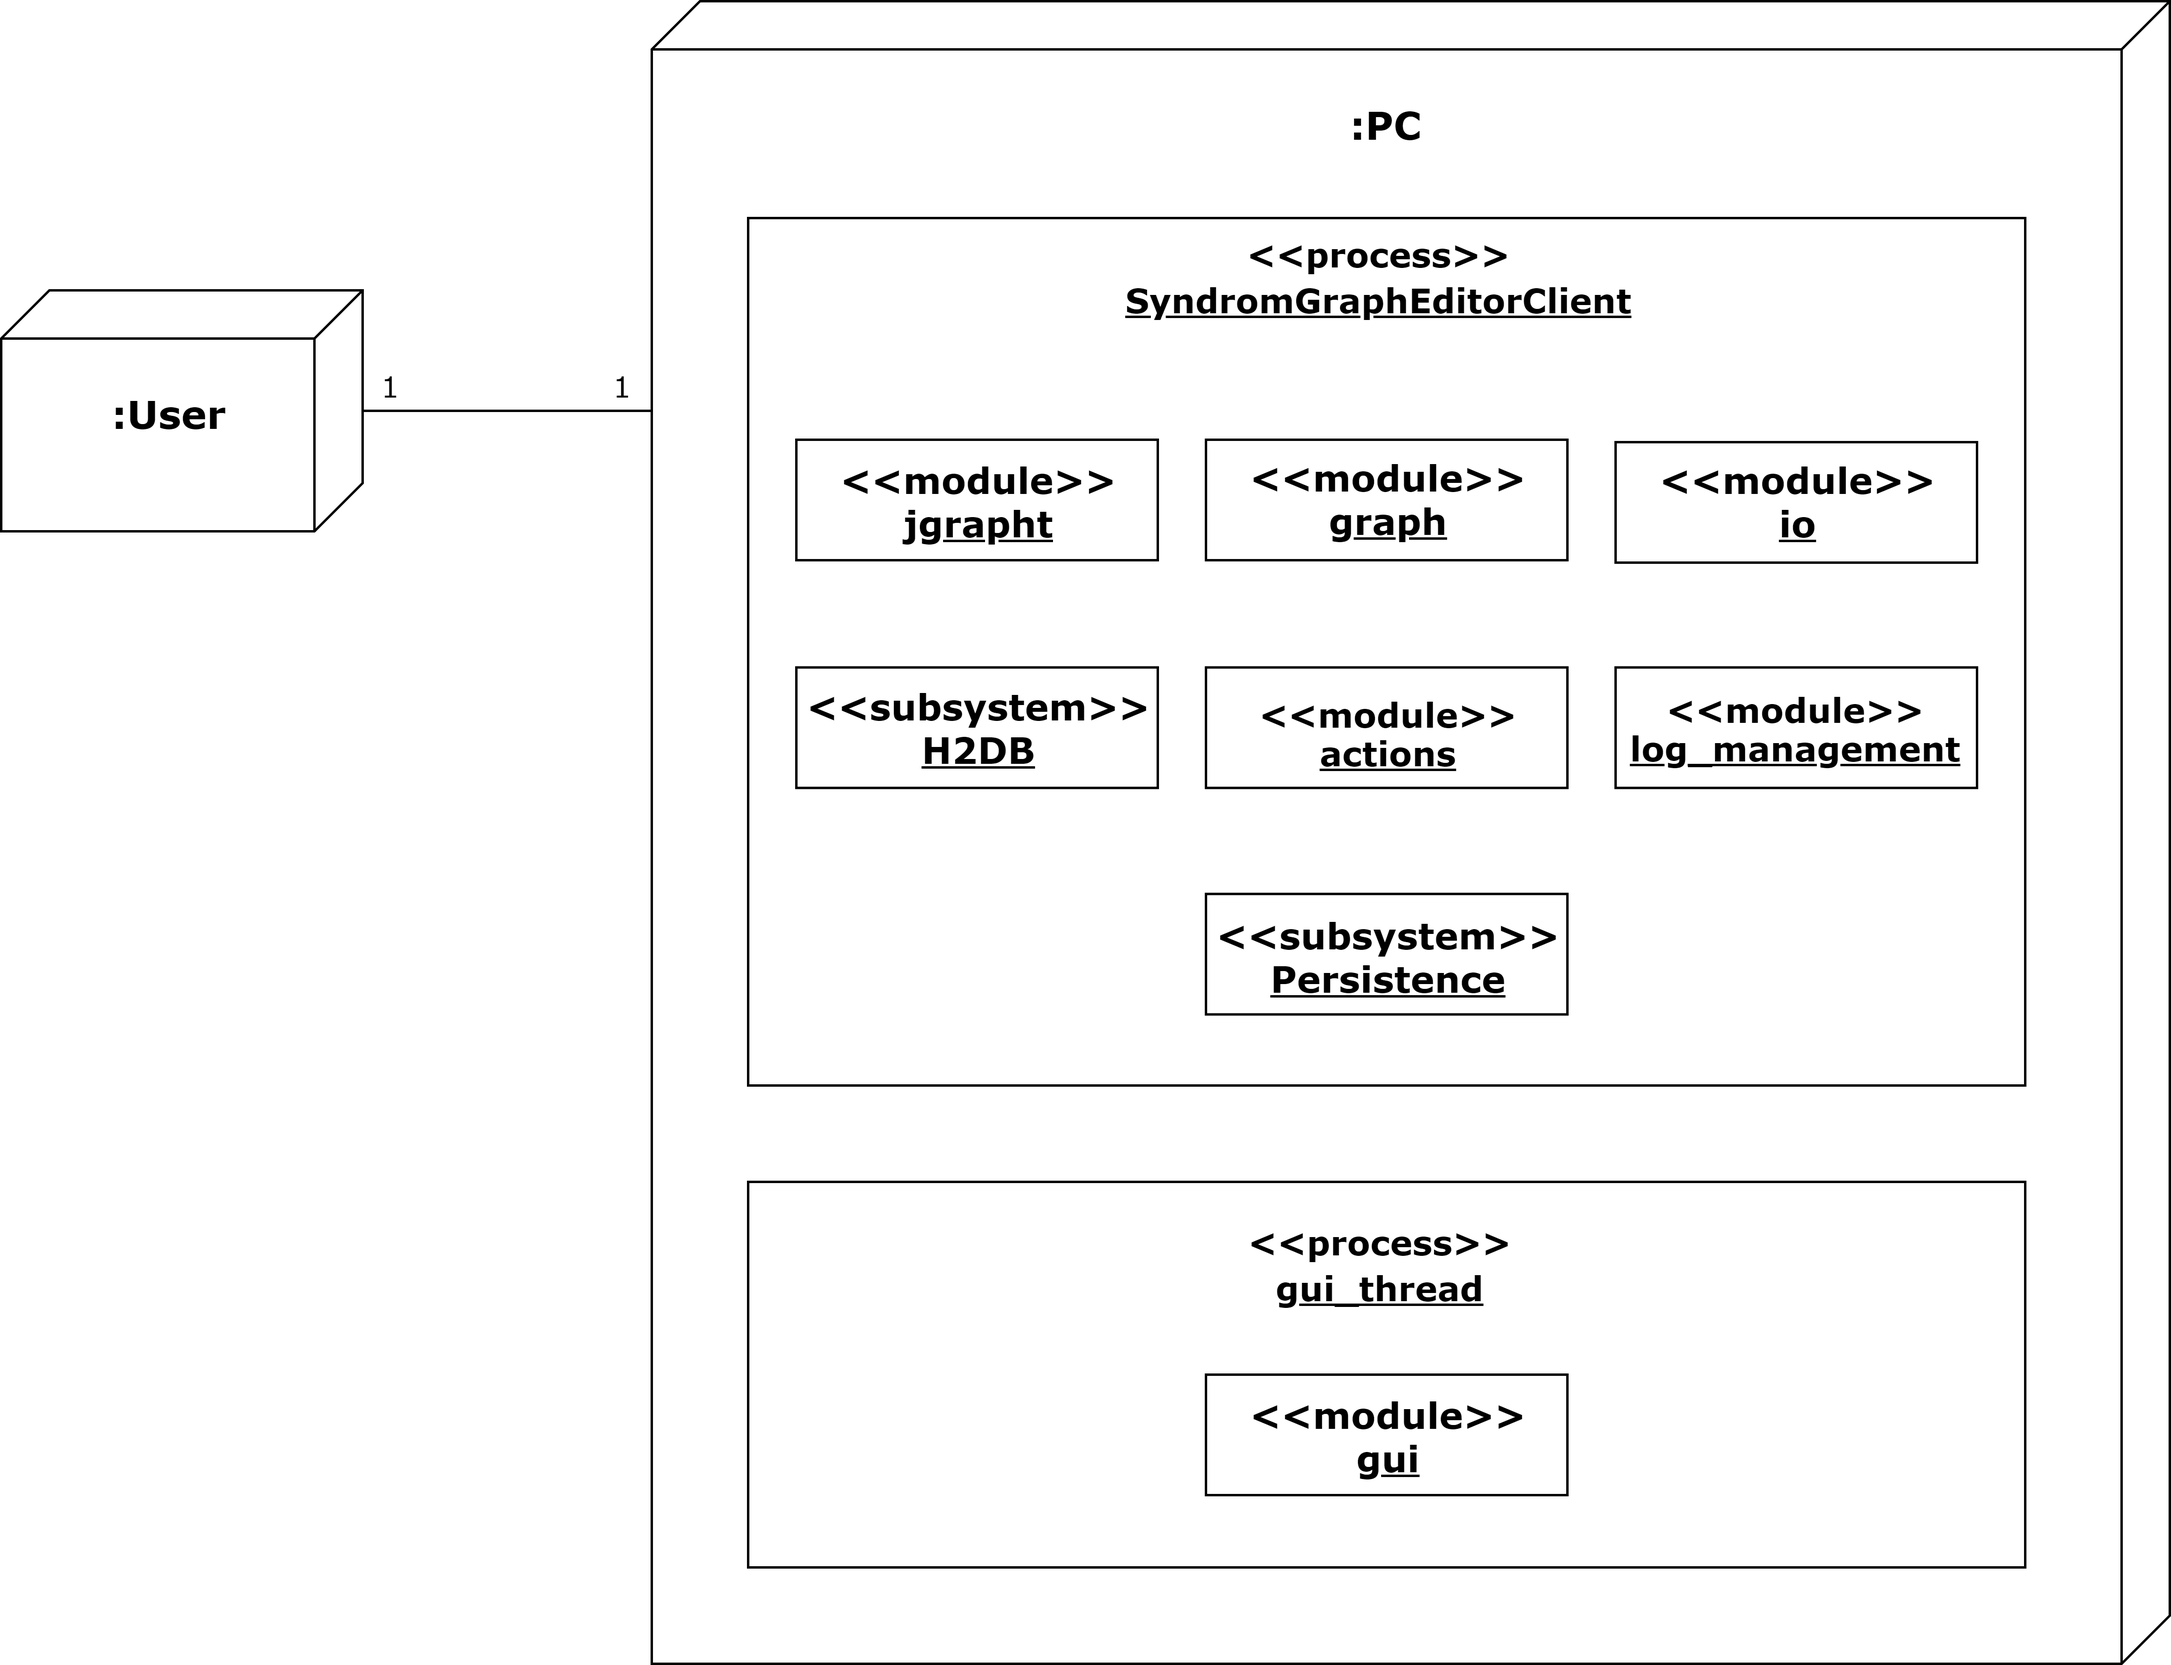
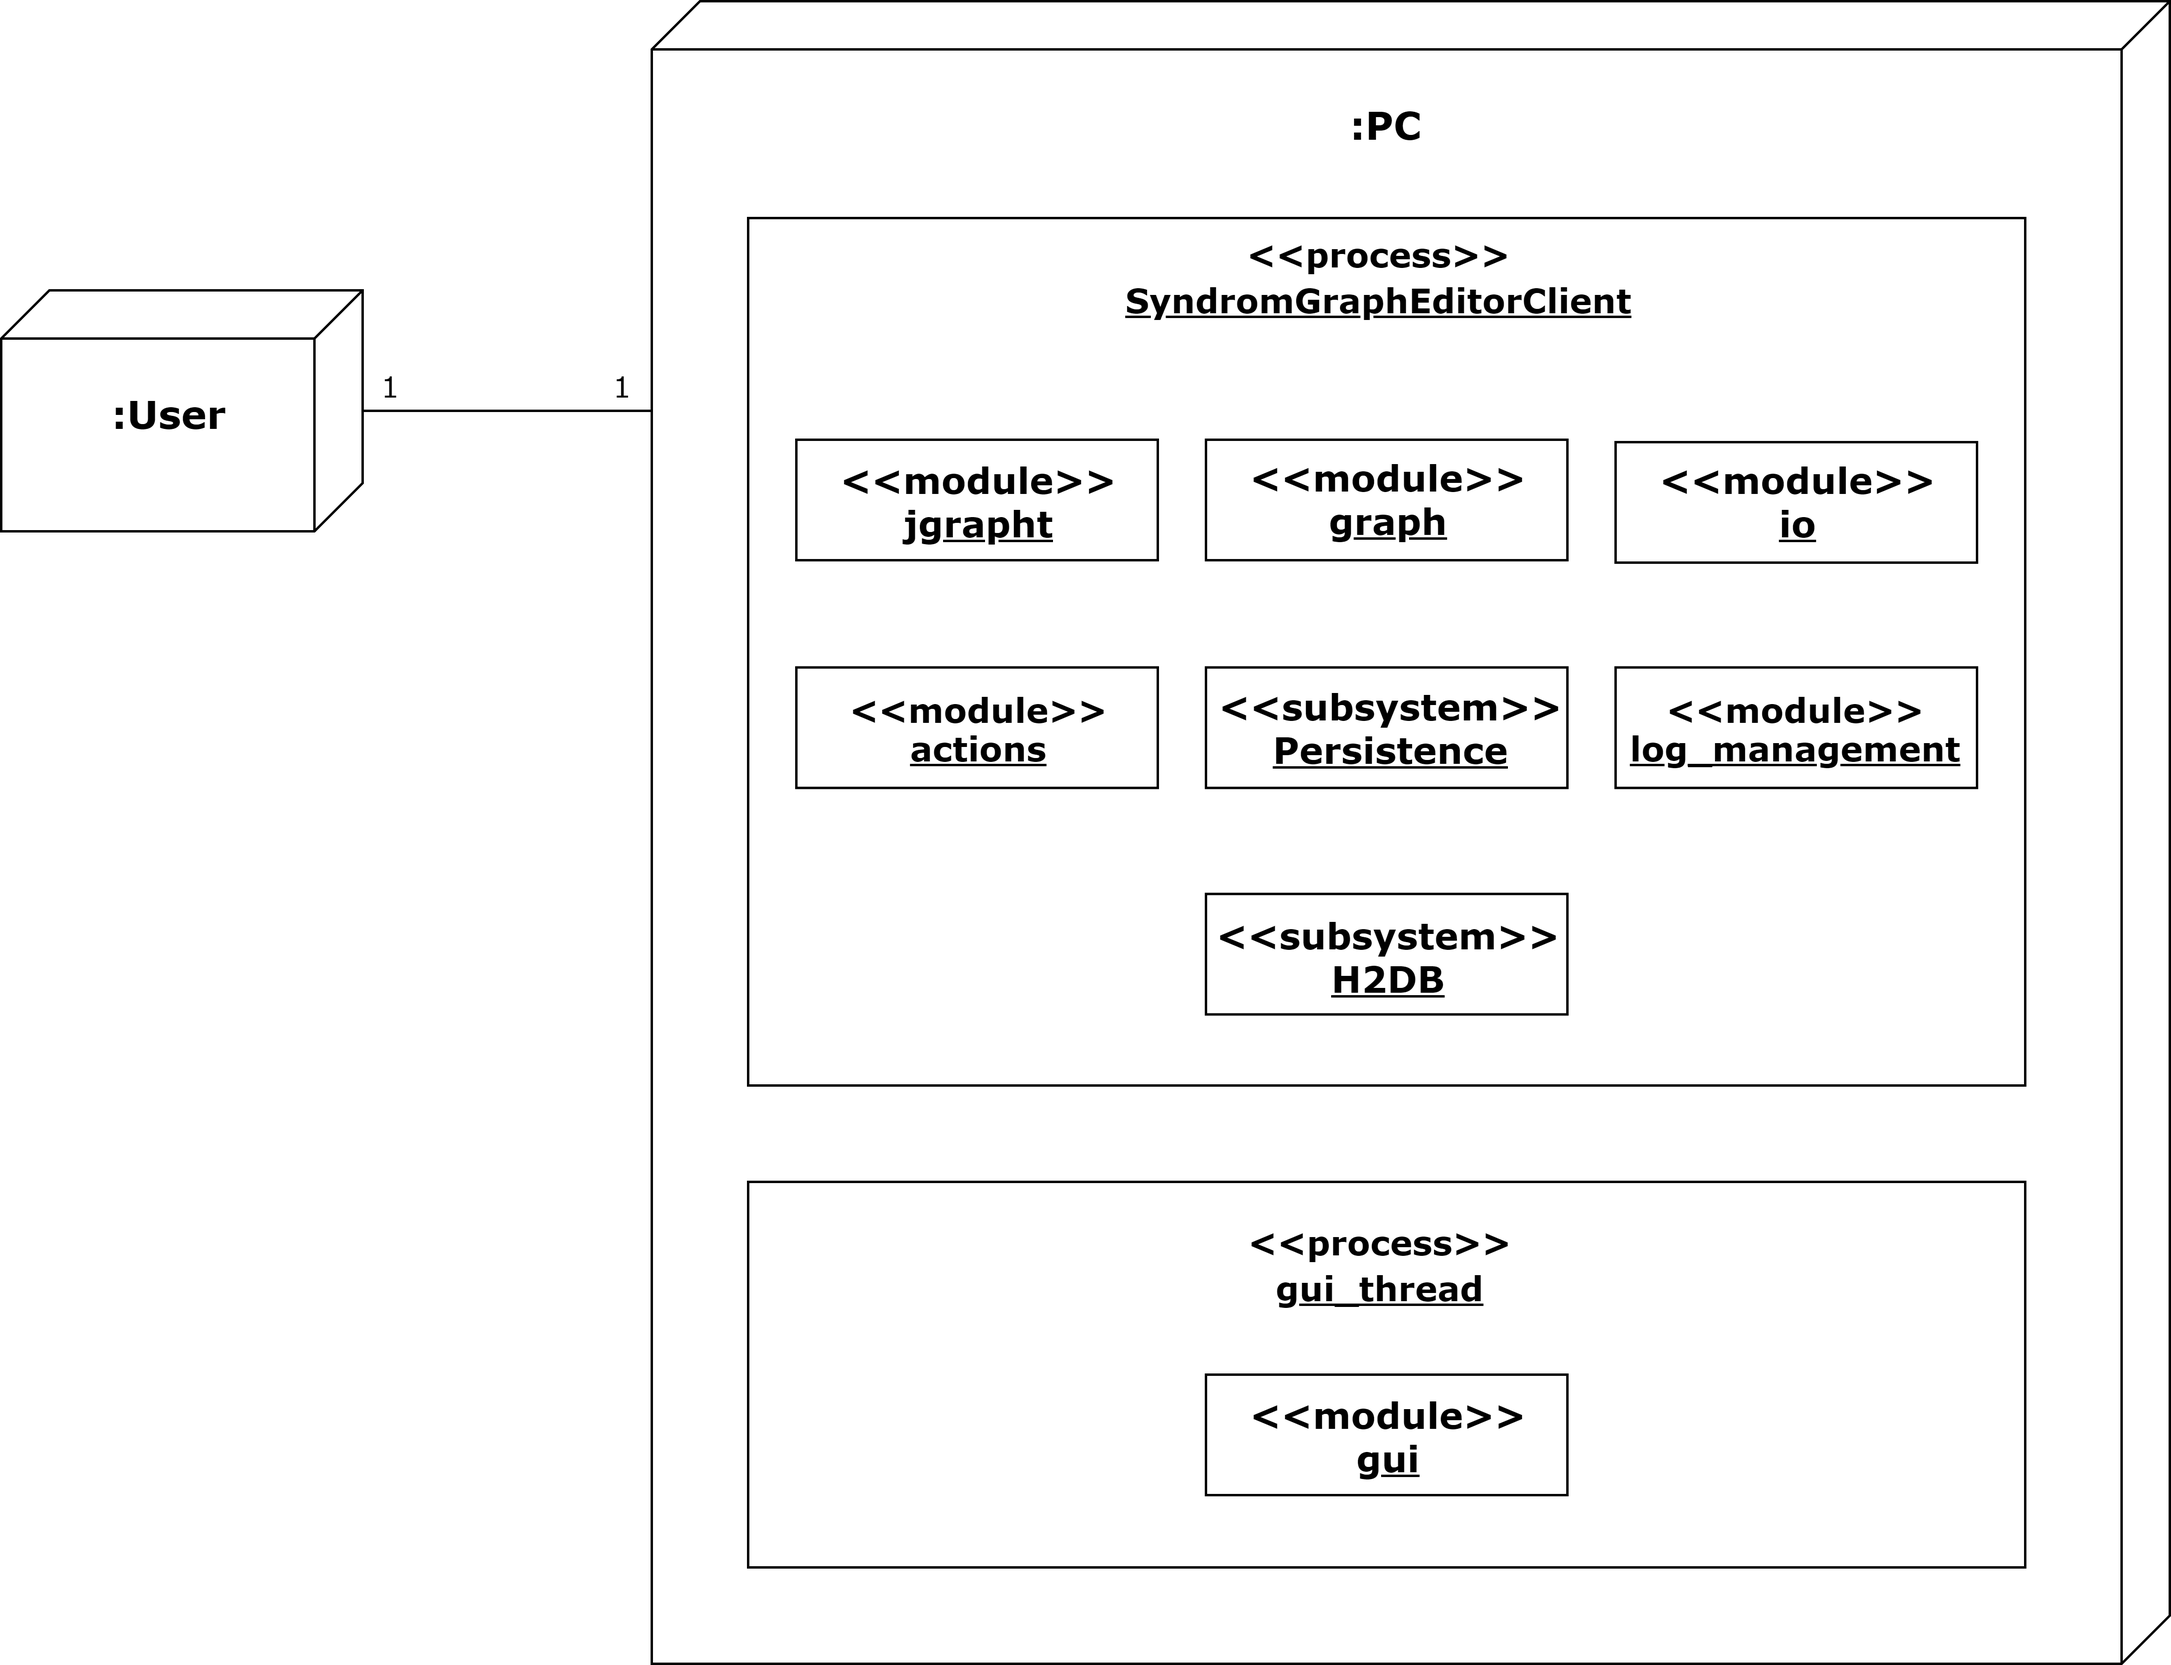
Ausführungssicht vorerst Fertig

Changed region(s): [[0.5594, 0.4026, 0.7148, 0.4645], [0.3729, 0.4026, 0.5283, 0.4645], [0.5905, 0.5575, 0.6837, 0.6194]]

diff --git a/Architekturbeschreibung/Architekturbeschreibung-TeamBlank.tex b/Architekturbeschreibung/Architekturbeschreibung-TeamBlank.tex
@@ -2255,11 +2255,13 @@ Da aber unser Datenmodell des Graphen nicht mit dem kompatibel ist welche JGraph
 \label{sec:ausfuehrung}
 \emph{Autoren: Bastian Rexhäuser, Clement Phung, Jacky Philipp Mach, Jonah Jaeger}\\ \\
 
-In den folgende Abbildung ist unsere Ausführungssicht zu erkennen. Da es sich nach den Anforderungen um eine lokale Anwendung handelt, gibt es pro Nutzer genau eine Instanz der Anwendung. Darüber hinaus ist die zeitgleiche Ausführung mehrerer Instanzen unserer Anwendung nicht vorgesehen und könnte zu Fehlern, insbesondere bei der Kommunikation mit der eingebetteten H2-Datenbank, führen. \\
+In den folgende Abbildung ist unsere Ausführungssicht zu erkennen. Da es sich nach den Anforderungen um eine lokale Anwendung handelt, gibt es pro Nutzer genau eine Instanz der Anwendung und die zeitgleiche Ausführung mehrerer Instanzen unserer Anwendung ist nicht vorgesehen. \\
 
-Da die Anwendung auf einem Thread läuft, werden alle Module auf dem Hauptprozess des \textit{Clients} ausgeführt. \\
-Zum Starten und Beenden der Anwendung ist das Modul \texttt{gui} zuständig. Es arbeitet mit dem Modul \texttt{action} zusammen, da Programmteile aus \texttt{gui} Actions aus dem Modul \texttt{actions} aufrufen. Durch den Aufruf dieser Actions kommt es zu Veränderungen des dargestellten Graphen(Package\texttt{graph.visualization}). Der geänderte Graph wird zusammen mit einem die Action beschreibenden Logeintrag in der Datenbank gespeichert. Letzteres ist nur der Fall, falls die ausgeführte Action ist, welche für die Protokollierung des Nutzerverhaltens relevant ist.
-\\ 
+Zum Starten und Beenden der Anwendung ist das Modul \texttt{gui} zuständig. Es arbeitet mit dem Modul \texttt{action} zusammen indem Programmteile aus \texttt{gui} (z.B. Buttons oder Menü-Items) bestimmte Actions aus dem Modul \texttt{actions} aufrufen. Durch den Aufruf dieser Actions kommt es zu Veränderungen des dargestellten Graphen (im Modul \texttt{graph}). Der geänderte Graph wird zusammen mit einem die Action beschreibenden Log-Eintrag in der Datenbank gespeichert. Dafür arbeitet das Modul \texttt{log\_management} mit dem Subsystem \texttt{Persistence} zusammen um das zweite Subsystem \texttt{H2DB} anzusteuern. Letzteres ist nur der Fall, falls die ausgeführte Action eine \texttt{LogAction} ist, welche für die Protokollierung des Nutzerverhaltens relevant ist.\\
+Im selben Prozess werden Import und Export durch das Modul \texttt{io} geregelt. Diese werden ebenfalls durch Actions aus \texttt{actions} ausgelöst. \\
+Zum Auswerten der Graph-Eigenschaften wird das Modul \texttt{jgrapht} benötigt. Auch diese Funktionen werden von den Actions in Kraft gesetzt.\\
+
+Da die Anwendung auf einem Thread läuft, werden alle Module auf dem Hauptprozess des \textit{Clients} ausgeführt, wie in folgender Abbildung (Ausführungssicht der Singlethread-Version) zu sehen ist. \\
 
 \begin{figure}[ht]
 	\centering
@@ -2269,7 +2271,8 @@ Zum Starten und Beenden der Anwendung ist das Modul \texttt{gui} zuständig. Es 
 \clearpage
 \newpage
 
-Bei : \\
+Eine Alternative zu der bestehenden Version wäre die Realisierung der Anwendung durch mehrere Threads. Eine Möglichkeit wäre es, die GUI in einem eigenen Thread laufen zu lassen (siehe folgende Abbildung: Ausführungssicht der Multithread-Version). Dies könnte helfen, eine durchgehend ansprechbare und dadurch angenehme Benutzeroberfläche, gemäß \hyperlink{g}{Hoher Usability} und \hyperlink{h}{Hoher Qualität}, zu entwickeln. Falls unsere Architektur diese Aspekte nicht ausreichend abdeckt, was sich in Tests späterer Entwicklungsphasen zeigen wird, dann haben wir immer noch die möglich, auf dieses Modell umzusteigen. \\
+
 \begin{figure}[ht]
 	\centering
 	\includegraphics[width=1\textwidth]{Ausfuehrungssicht_Multithread.png}
